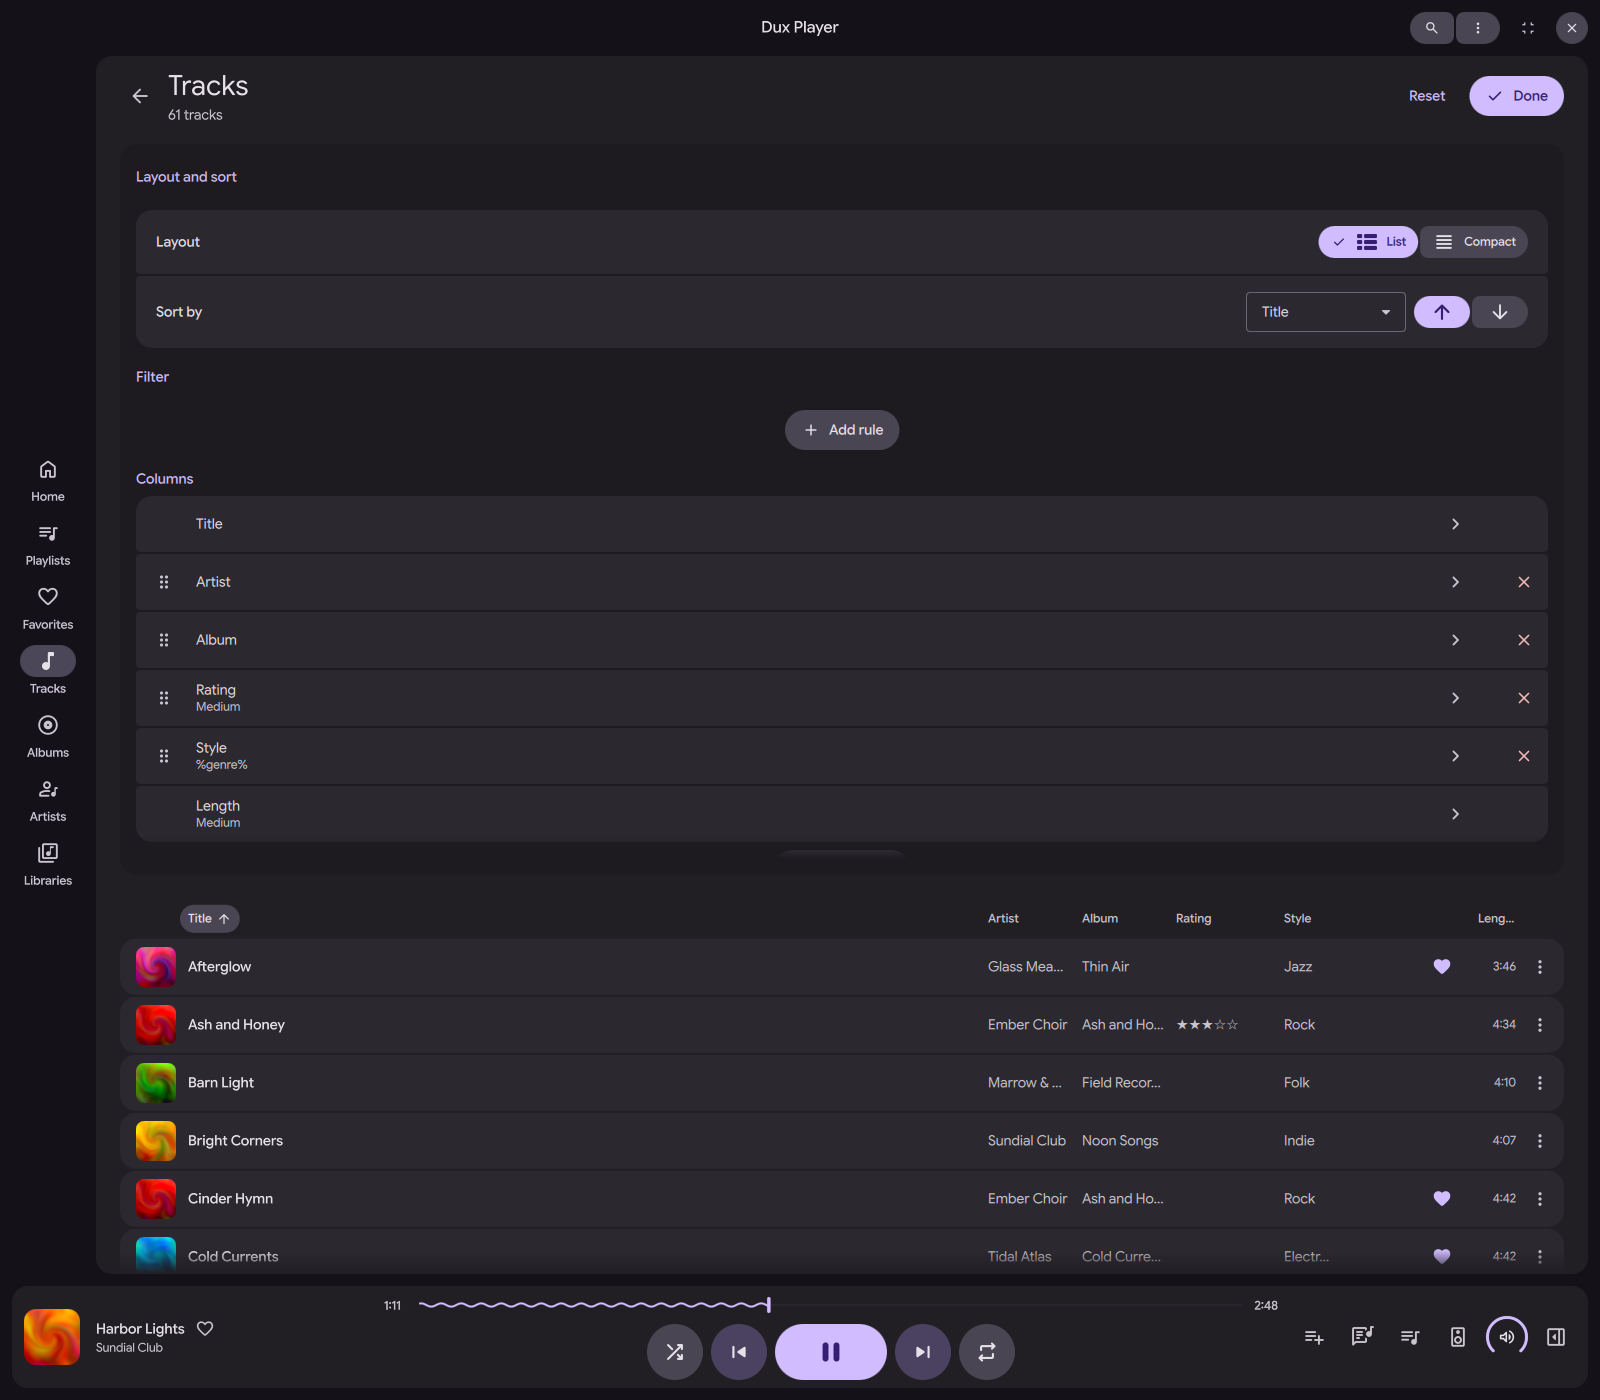
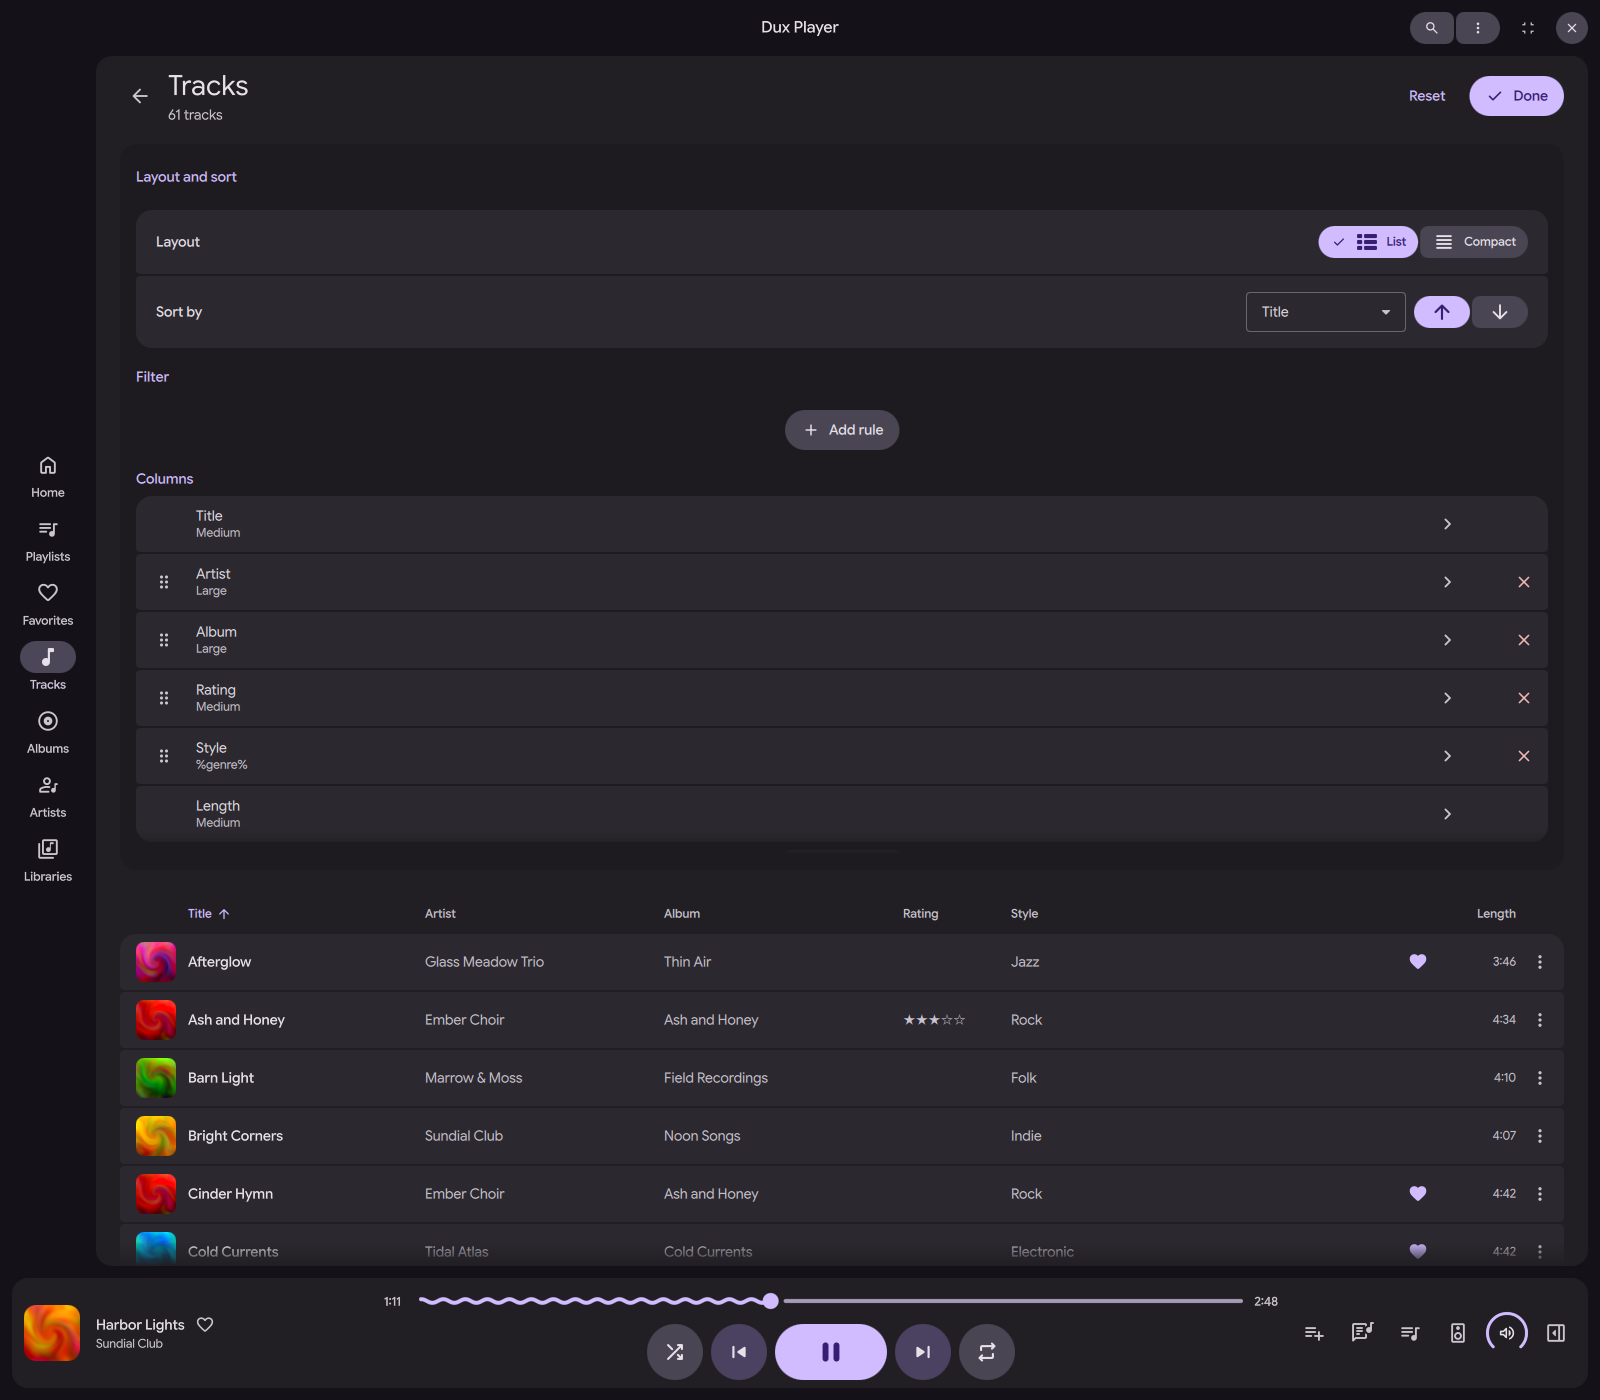
docs: new screenshots and features

diff --git a/README.md b/README.md
@@ -8,25 +8,44 @@ Dux Player plays local libraries and streams from Navidrome, Subsonic and Jellyf
 
 ![Home in the Bento style](docs/screenshots/home.png)
 
+![Full view in the Bento style](docs/screenshots/now-playing.png)
+
+![Synced lyrics beside the player](docs/screenshots/lyrics.png)
+
+<details>
+<summary>More screenshots</summary>
+
+Bottom bar and side panel, Bento and Material styles:
+
 ![Bottom bar and side panel in the Bento and Material styles](docs/screenshots/bars.png)
 
-| Full view, Bento | Full view, Material |
-|---|---|
-| ![Full view in the Bento style](docs/screenshots/now-playing.png) | ![Full view in the Material style](docs/screenshots/now-playing-material.png) |
+Full view, Material style:
 
-| Synced lyrics | Home with other shelves and layout |
-|---|---|
-| ![Synced lyrics beside the player](docs/screenshots/lyrics.png) | ![Home in the Material style with other shelves](docs/screenshots/home-custom.png) |
+![Full view in the Material style](docs/screenshots/now-playing-material.png)
 
-Pages, columns and the full view can be customized.
+Home with other shelves and layout:
 
-| Custom columns | Page editor |
-|---|---|
-| ![Tracks page with custom columns](docs/screenshots/tracks.png) | ![The page editor](docs/screenshots/page-editor.png) |
+![Home in the Material style with other shelves](docs/screenshots/home-custom.png)
+
+Tracks page with custom columns:
+
+![Tracks page with custom columns](docs/screenshots/tracks.png)
+
+Page editor:
+
+![The page editor](docs/screenshots/page-editor.png)
+
+A customized full view:
 
 ![A customized full view](docs/screenshots/now-playing-custom.png)
 
-![Supported sources and outputs](docs/screenshots/sources.png)
+Supported libraries and outputs:
+
+![Supported libraries and outputs](docs/screenshots/sources.png)
+
+</details>
+
+Pages, columns and the full view can be customized.
 
 ## Features
 - Local libraries (several folders, indexed and watched) and any number of server libraries; Jellyfin also signs in with Quick Connect, so no password is stored
@@ -34,17 +53,17 @@ Pages, columns and the full view can be customized.
 - Offline rules per server library, caching and preloading the next songs for a seamless experience; favorites and ratings set while a server is unreachable are sent once it is back
 - Server catalogs are kept on the device once a first sync finishes: browsing and search are instant and work while the server is unreachable, where tracks without a cached copy show that they can't play. Checked every 15 minutes, read in full when the server reports a change (at most hourly), at least daily, and on Rescan; the sync waits on a metered connection unless started by hand
 - Gapless playback, crossfade, volume normalization, skipping leading and trailing silence, equalizer several outputs at once
-- Optional synced lyrics with word-by-word fill, in the full view and as one line in the bar, on by default, scrobbling (through the server, or to ListenBrainz and Last.fm), casting through [dux-cast](https://github.com/Conava/dux-cast)
+- Optional synced lyrics with word-by-word fill, in the full view and as one line in the bar, on by default, scrobbling (to ListenBrainz, Last.fm and the server), casting through [dux-cast](https://github.com/Conava/dux-cast)
 - Keeps playing with the window closed; MPRIS, a tray icon and a CLI (`dplayer play`, `dplayer next`, …) for keybinds
 - Phones can control the player over the network through KDE Connect or GSConnect (through MPRIS), until a LAN remote exists
 - `dplayer watch` and `dplayer status --format` for status bars and scripts
 - `dplayer sleep after <number>` stops when a queue entry ends, numbered as `dplayer queue` lists it; a rule behind the current track is dropped unless repeat all is on, and while casting the receiver gets the queue only up to that entry
-- Text templates for a now-playing line and for custom columns in track lists; each column has its own title, Sort by field and width (small, medium or large; Length is sized the same way)
+- Text templates for a now-playing line and for custom columns in track lists; each column has its own title, Sort by field and width (small, medium or large, or drag the border between two columns; Length takes the three sizes only)
 - Filter rules for track, album and artist pages: match all or any of a list of conditions on fields such as genre, library, rating, year, length, plays, date added and last played
 - Stop after a chosen queue entry, shuffle by album, and rules for what shuffle all and auto-continue skip (genres, libraries, low ratings, short tracks); shuffling a named library ignores that library's skip entry
 - Keep a single song on the device for offline play, from its menu; track tiles can open the album instead of playing; `dplayer keep library:id…` and `dplayer unkeep library:id…` do the same from the CLI
 - When a track has no lyrics, the full view can fall back to the cover
-- Now-playing bar, side panel and full view in Bento or Material design, with arrangeable elements, a customizable home page and track lists, and searchable settings
+- Now-playing bar, side panel and full view in Bento or Material design, with arrangeable elements, also in lines above and below the seekbar, a customizable home page and track lists, custom pages with their own rules, columns, limit, random order, grouping and icon, and searchable settings
 
 ## Requirements
 
@@ -105,13 +124,15 @@ Fields: `title`, `artist`, `artists`, `album`, `albumartist`, `composer`, `genre
 
 The daemon logs to `~/.local/state/dplayer/daemon.log` and the window to `ui.log` next to it, including mpv's warnings and the mpv version found at startup. To watch it live, run `dplayer quit`, then `dplayer daemon` in a terminal, and open the window.
 
+A clone without `--recursive` has no `dux-qml-common`: run `git submodule update --init`.
+
 ## Online services
 
 Dux Player only contacts the servers you add, except for these features, each of which can be turned off in Settings:
 
-- **Artist information:** artist names are sent to MusicBrainz, Wikidata and Wikipedia, and to fanart.tv and Last.fm once you add your own API key. Biographies from Wikipedia are available under [CC BY-SA 4.0](https://creativecommons.org/licenses/by-sa/4.0/).
+- **Artist information:** artist names are sent to MusicBrainz, Wikidata and Wikipedia, and to fanart.tv once you add your own API key. Last.fm gets them too, through the app's built-in API key or your own. Biographies from Wikipedia are available under [CC BY-SA 4.0](https://creativecommons.org/licenses/by-sa/4.0/).
 - **Lyrics:** on by default. Title, artist, album and length of the playing track, of the next track while lyrics are open, and of downloaded tracks are sent to the enabled lyrics providers. Turn lyrics off in Settings → Lyrics and no provider is contacted; turn off Lyrics for downloaded tracks to send only tracks you play. Matching lyrics timing to the audio runs on this device and sends nothing.
-- **Scrobbling:** played tracks are sent to ListenBrainz or Last.fm when you connect an account. Last.fm needs your own [API account](https://www.last.fm/api/account/create).
+- **Scrobbling:** played tracks are sent to ListenBrainz or Last.fm when you connect an account, from server libraries too unless you turn that off for a library. Last.fm uses the app's built-in API account; if you prefer, enter your own [API account](https://www.last.fm/api/account/create).
 
 ## Contributing
 
